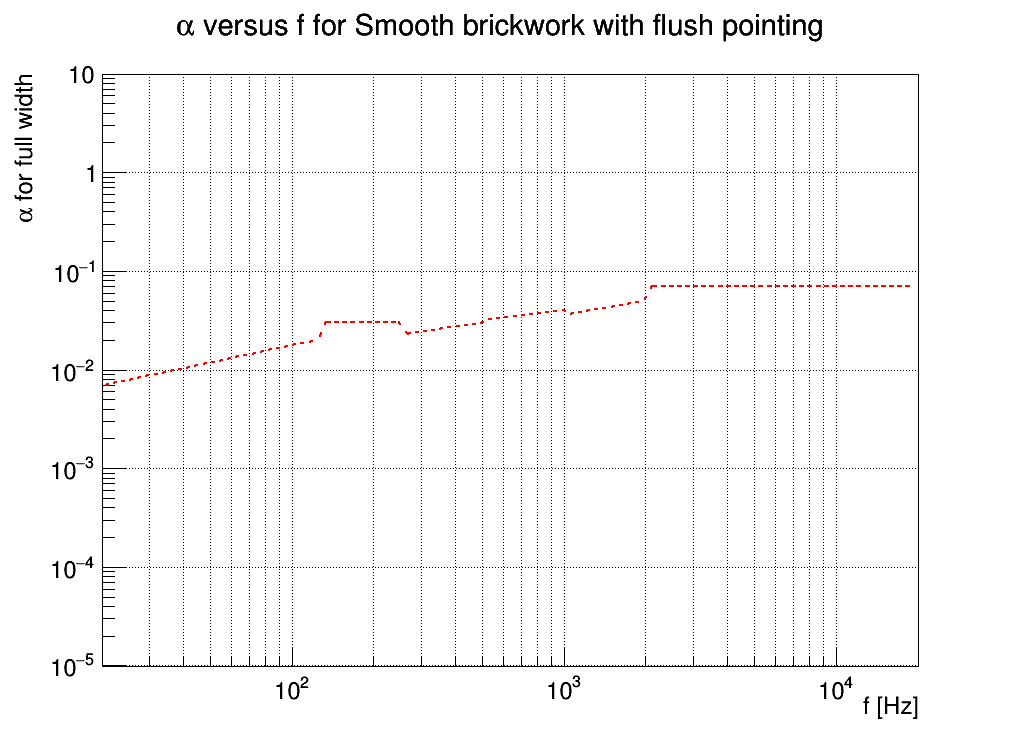
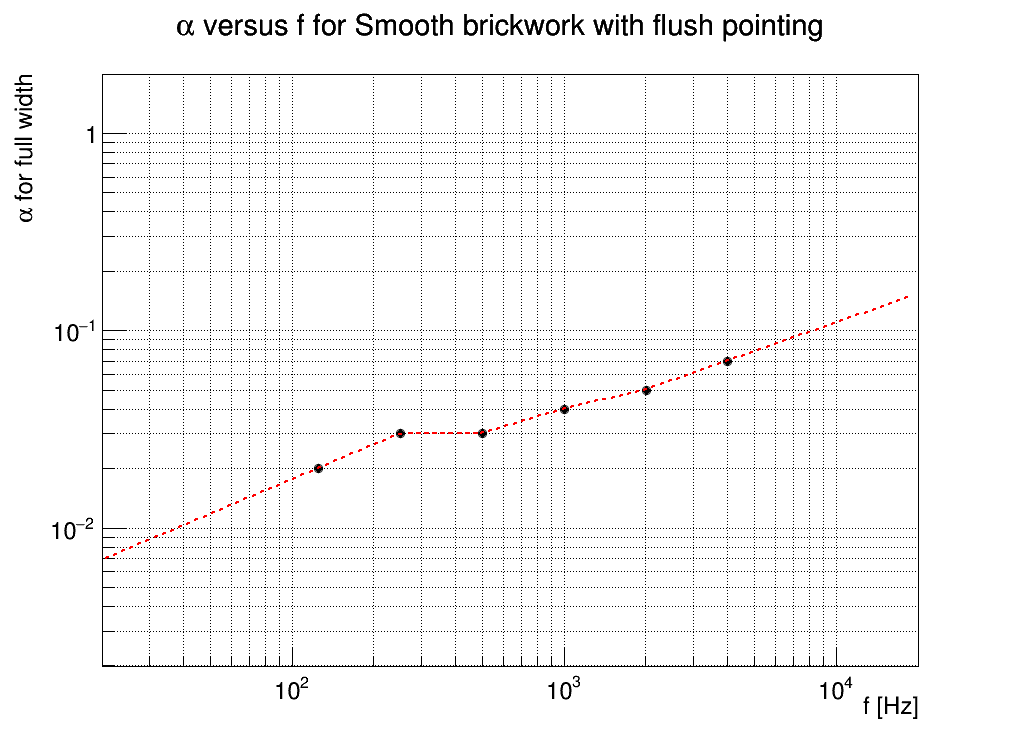
Add files via upload

diff --git a/plot_simple_example.cc b/plot_simple_example.cc
@@ -6,6 +6,7 @@
 #include "TFitResult.h"
 #include "TLatex.h"
 #include "TStyle.h"
+#include "TGraph.h"
 #include "water_air_simpifield_formula.h"
 #include "other_materials_ai.h"
 
@@ -69,12 +70,16 @@ int main()
   c->Modified();
   c->Print(Form("water_approximation_T%.0f_S%.0f_D%.0f_pH%.0f.png",TCelsiusWater,Salinity,Depth,pH));
   
-  int nmat = 5;
+  int nmat = 5; //"Smooth brickwork with flush pointing"
   frame->SetTitle(Form("#alpha versus f for %s",materialnames[nmat]));
-  frame->GetYaxis()->SetTitle("#alpha for full width");
-  frame->SetMinimum(0.00001);
-  frame->SetMaximum(10);
+  frame->GetYaxis()->SetTitle("#alpha for full material width");
+  TGraph* othermat_data = new TGraph(NAI,frequenciesOtherMat,aivalues[nmat]);
+  frame->SetMinimum(0.002);
+  frame->SetMaximum(2);
   frame->Draw();
+  othermat_data->SetMarkerStyle(20);
+  othermat_data->SetMarkerSize(1);
+  othermat_data->Draw("P");
   TF1* othermat_absorption_func = new TF1("othermat_absorption_func",AlphaOtherMaterial,frmin,frmax,1); 
   othermat_absorption_func->SetParameter(0,nmat);
   othermat_absorption_func->SetLineColor(2);

diff --git a/other_materials_ai.h b/other_materials_ai.h
@@ -423,9 +423,10 @@ double AlphaOtherMaterial(const double *x, const double *par)
       break;
     }
   if(range==-1) range=NAI; //this means f larger than largest frequency point
+  if(range==0) range=1; //first range is up to 250
   if(range>NAI-2) range=NAI-1; //last range is from 2000
     
-  double n = log(aivalues[nmat][range+1]/aivalues[nmat][range]) / log(frequenciesOtherMat[range+1]/frequenciesOtherMat[range]);
+  double n = log(aivalues[nmat][range]/aivalues[nmat][range-1]) / log(frequenciesOtherMat[range]/frequenciesOtherMat[range-1]);
   double c = aivalues[nmat][range]/pow(frequenciesOtherMat[range],n);
   
   return c*pow(f,n);
